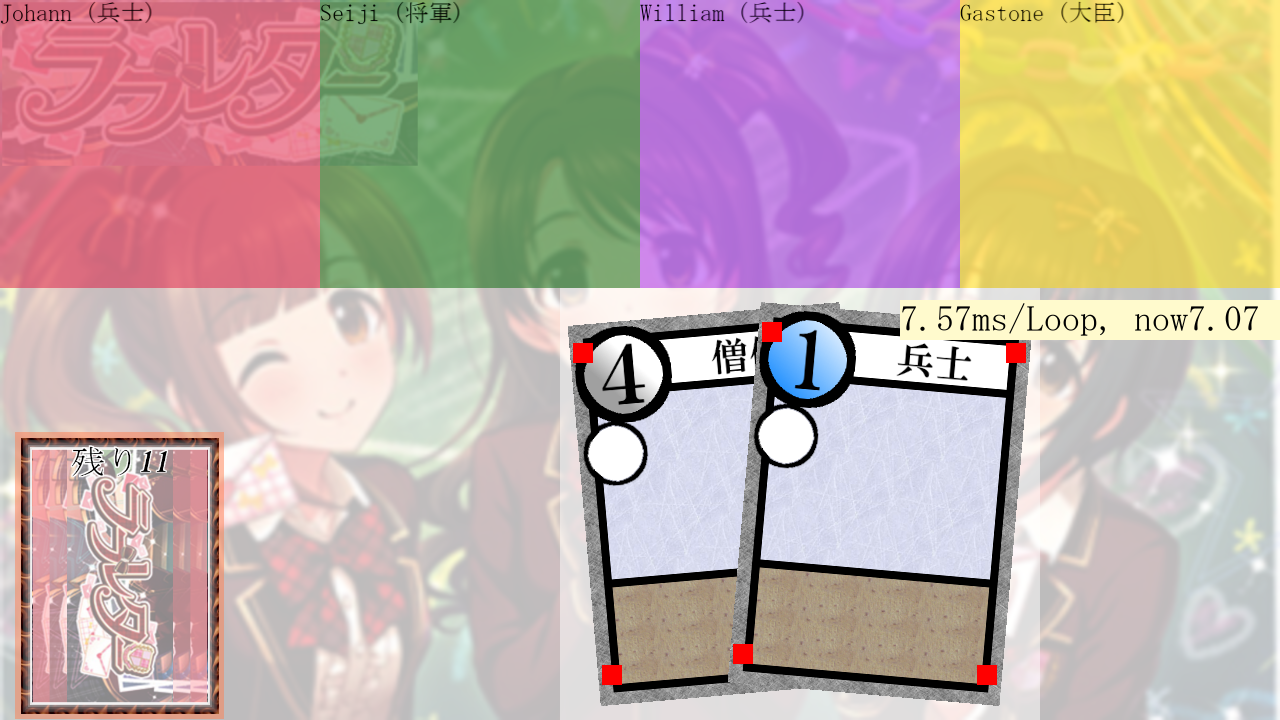
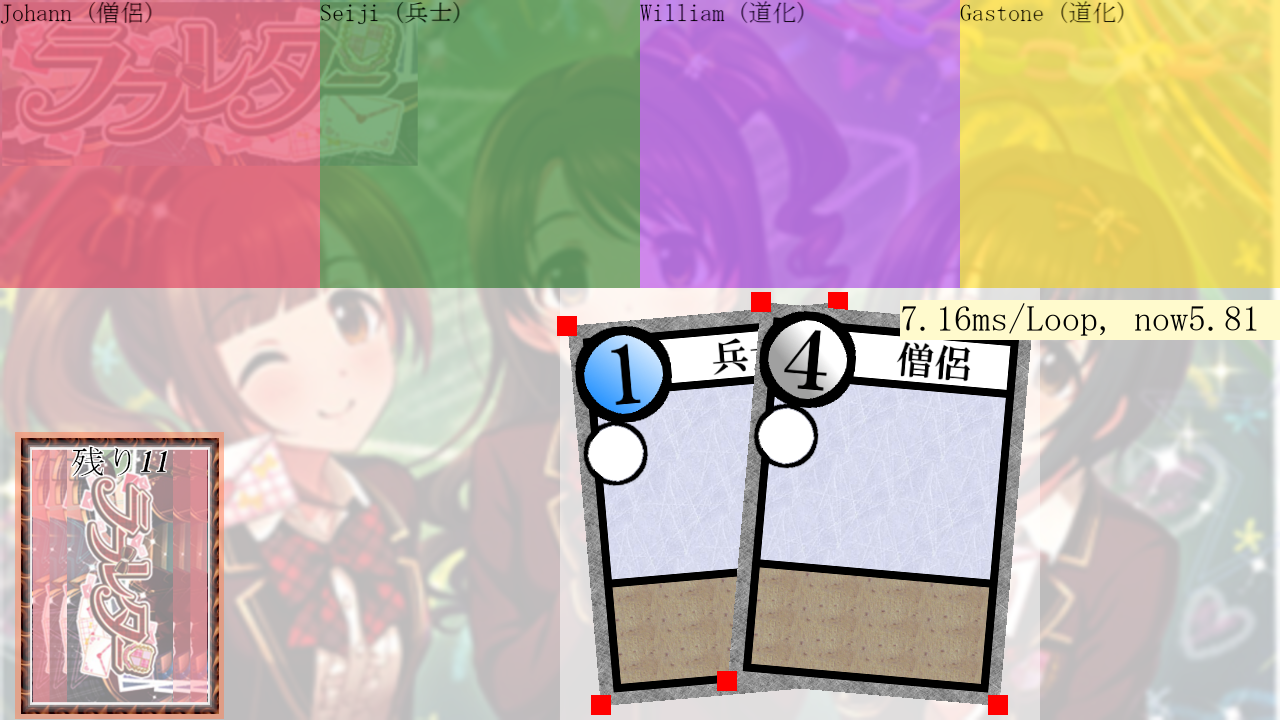
L088:pygame.transform.rotozoomで回転(=拡大)した画像の幅を参照していたバグを修正

diff --git a/ll/view/hand_square.py b/ll/view/hand_square.py
@@ -54,15 +54,15 @@ class HandSquare():
         )
 
     def _vertices(self) -> list[V2]:
-        hx, hy = V2(self.img.get_size())/2
+        hx, hy = V2(self.kard.picture().get_size())/2
         li = [V2(-hx, -hy), V2(hx, -hy), V2(hx, hy), V2(-hx, hy)]
-        return [self._rotated_vertices(v2) for v2 in li]
+        return [self._rotated_vertices(v2*self.scale) for v2 in li]
     
     def _rotated_vertices(self, from_v2: V2) -> V2:
         rad = radians(-self.angle)
         return V2(
-            self.center.x+(cos(rad)*from_v2.x-sin(rad)*from_v2.y)*self.scale,
-            self.center.y+(sin(rad)*from_v2.x+cos(rad)*from_v2.y)*self.scale,
+            self.center.x+(cos(rad)*from_v2.x-sin(rad)*from_v2.y),
+            self.center.y+(sin(rad)*from_v2.x+cos(rad)*from_v2.y),
         )
     
     def _mousedown(self) -> None:
